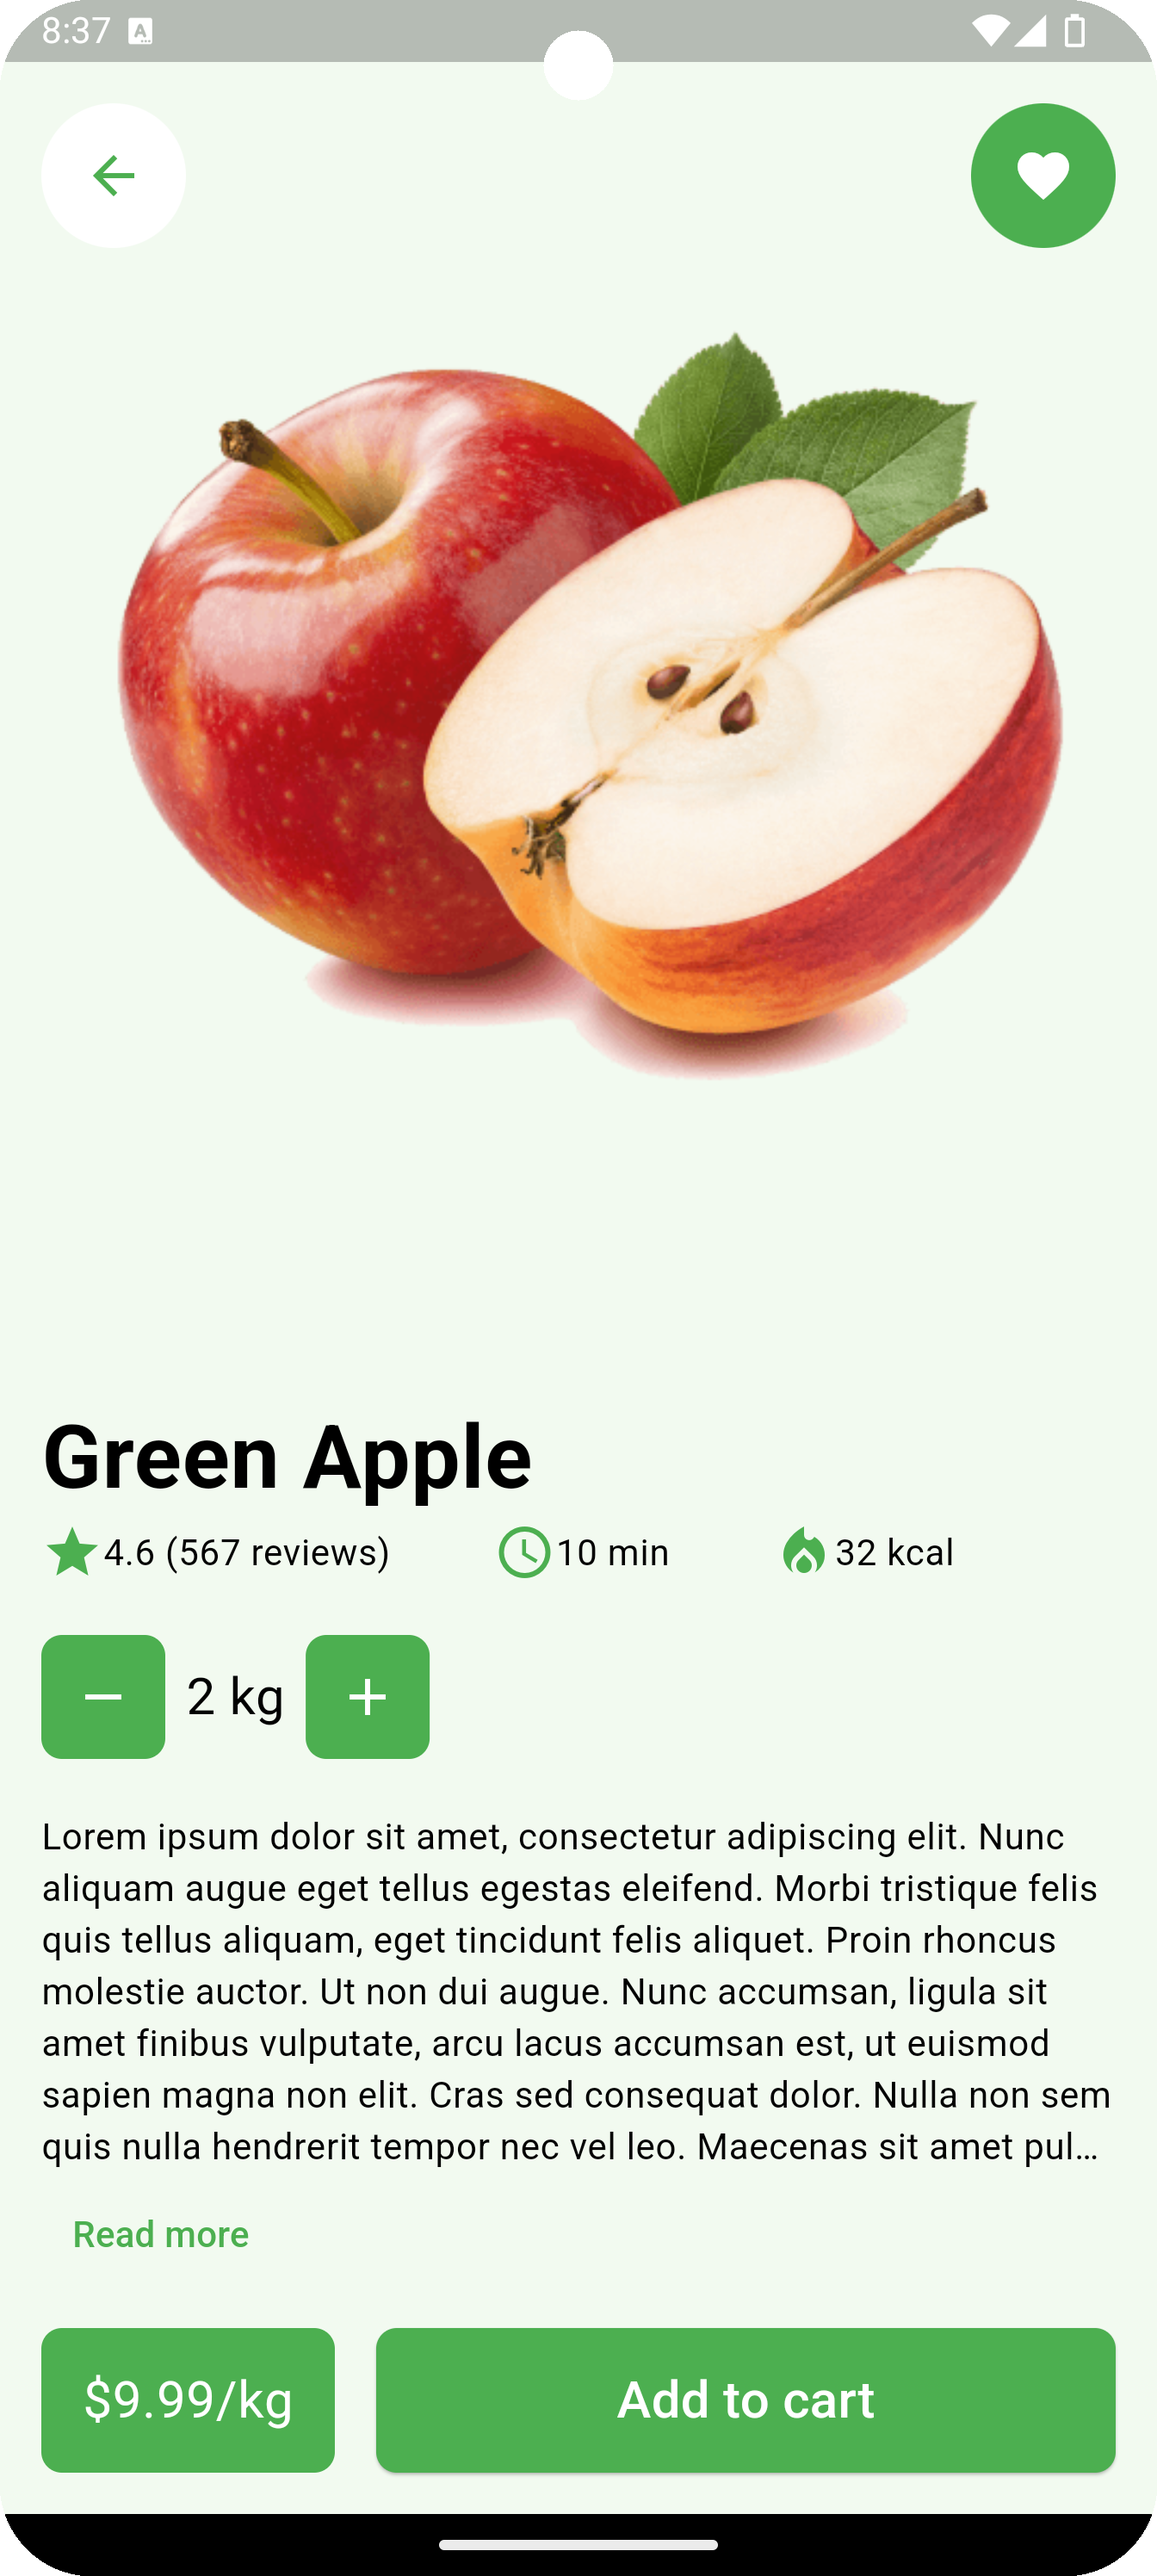
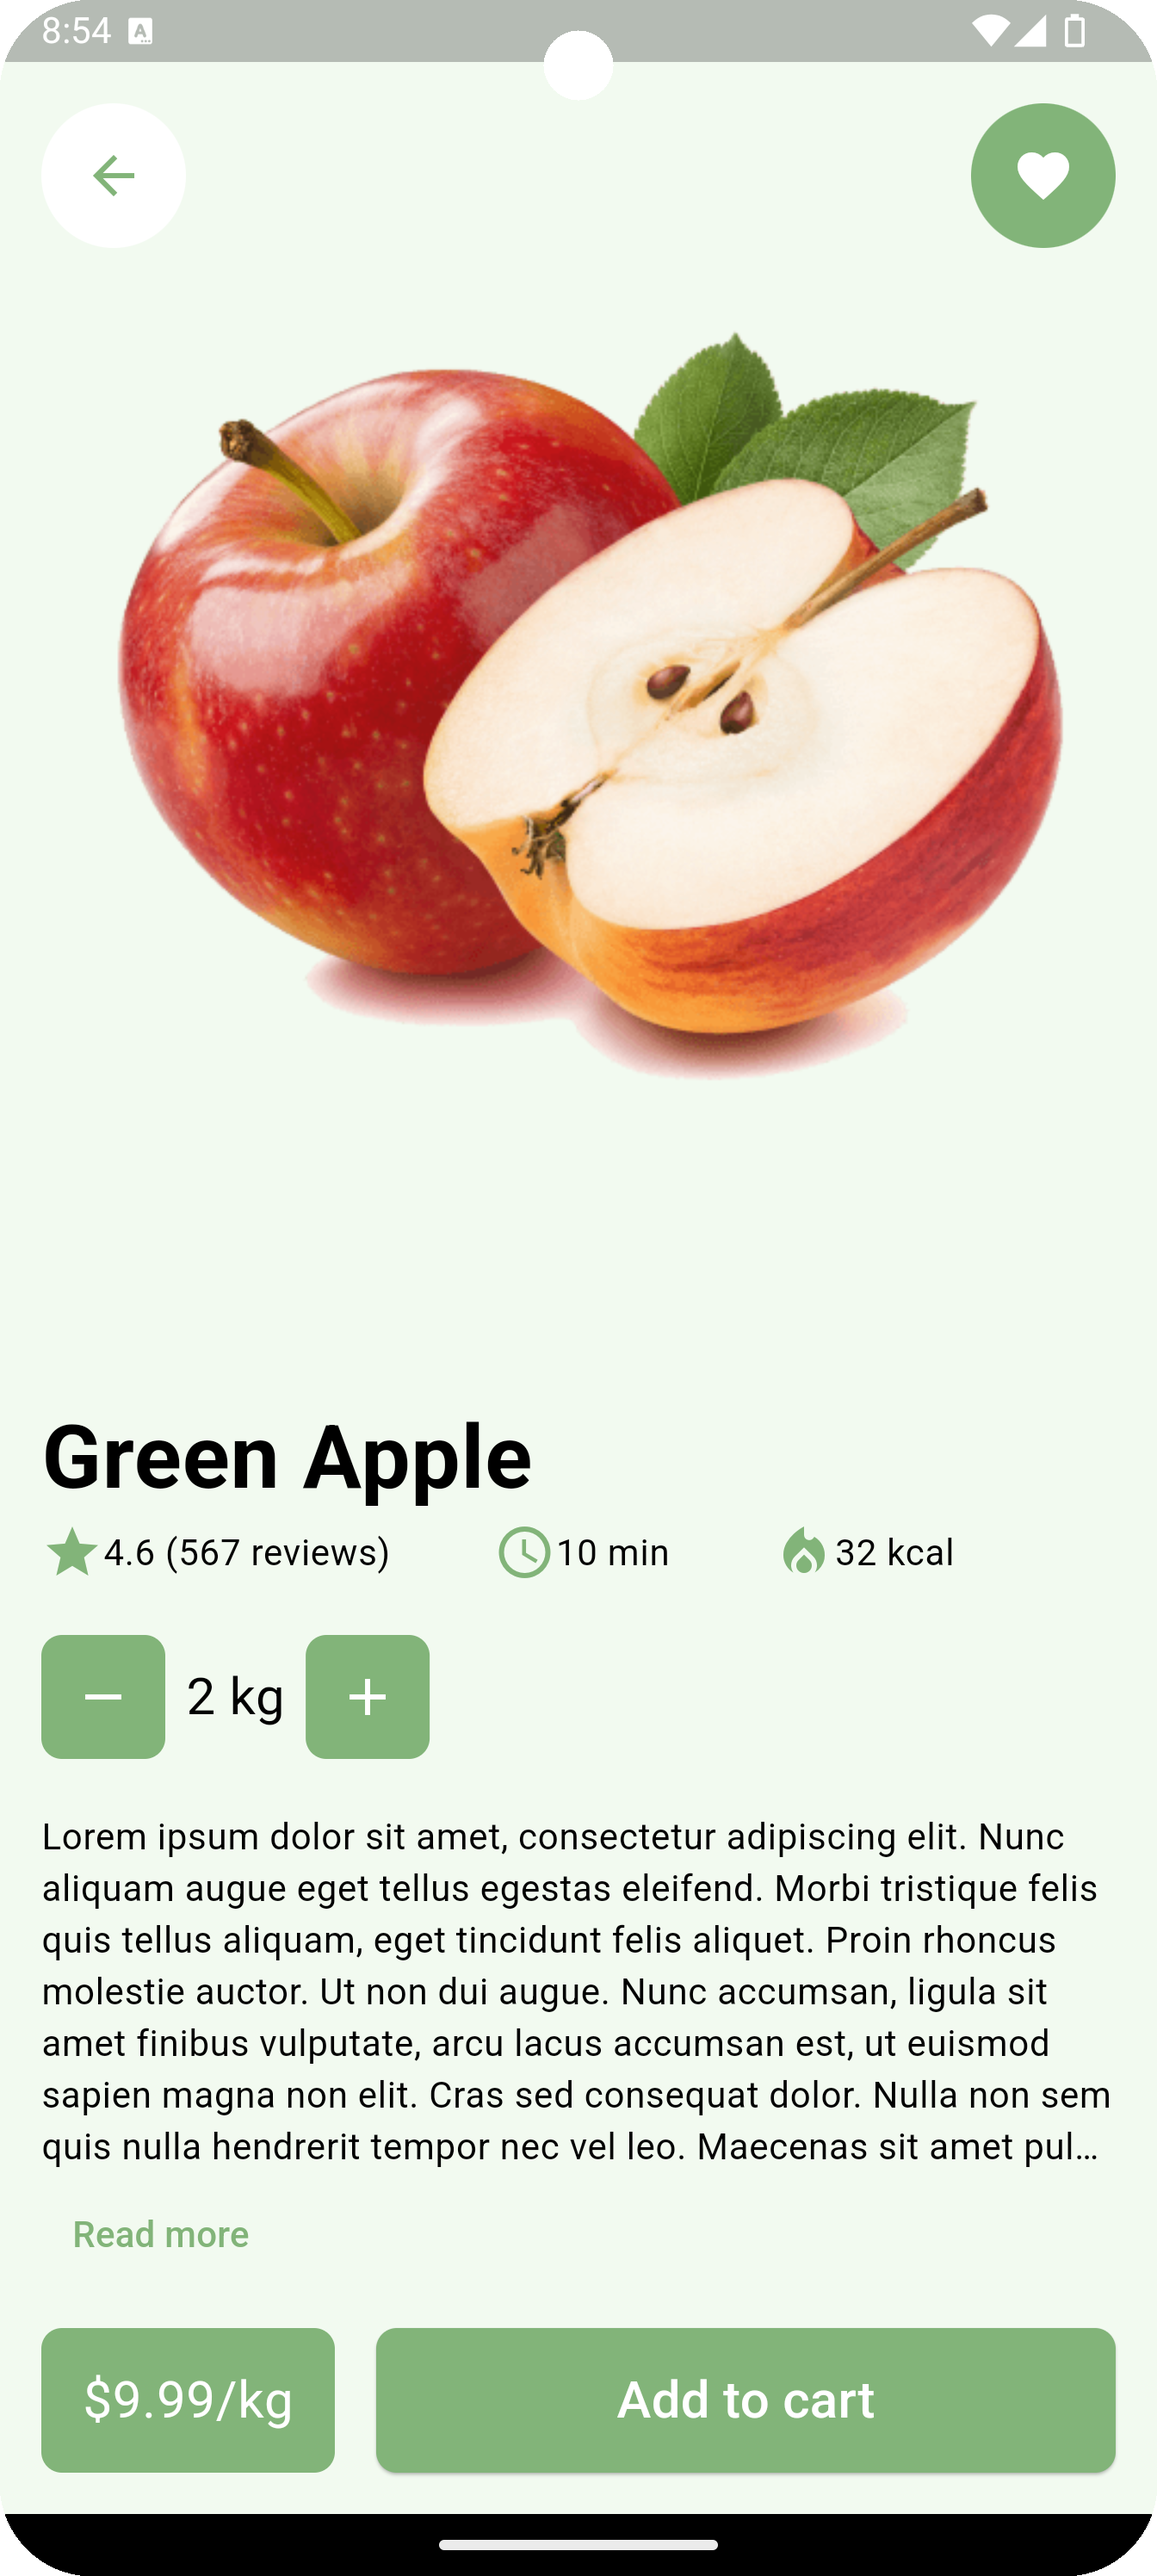
new screenshot

diff --git a/lib/screens/product_details_screen.dart b/lib/screens/product_details_screen.dart
@@ -80,21 +80,21 @@ class _ProductDetailsScreenState extends State<ProductDetailsScreen> {
                         children: [
                           Row(
                             children: [
-                              Icon(Icons.star, color: Colors.green),
+                              Icon(Icons.star, color: Color(0xFF82b479)),
                               Text('${widget.rating} (${widget.reviews} reviews)'),
                             ],
                           ),
                           SizedBox(width: 40),
                           Row(
                             children: [
-                              Icon(Icons.access_time, color: Colors.green),
+                              Icon(Icons.access_time, color: Color(0xFF82b479)),
                               Text('${widget.deliveryTime} min'),
                             ],
                           ),
                           SizedBox(width: 40),
                           Row(
                             children: [
-                              Icon(Icons.local_fire_department, color: Colors.green),
+                              Icon(Icons.local_fire_department, color: Color(0xFF82b479)),
                               Text('${widget.calories} kcal'),
                             ],
                           ),
@@ -105,7 +105,7 @@ class _ProductDetailsScreenState extends State<ProductDetailsScreen> {
                         children: [
                           Container(
                             decoration: BoxDecoration(
-                              color: Colors.green,
+                              color: Color(0xFF82b479),
                               borderRadius: BorderRadius.circular(8),
                             ),
                             child: IconButton(
@@ -118,7 +118,7 @@ class _ProductDetailsScreenState extends State<ProductDetailsScreen> {
                           SizedBox(width: 8),
                           Container(
                             decoration: BoxDecoration(
-                              color: Colors.green,
+                              color: Color(0xFF82b479),
                               borderRadius: BorderRadius.circular(8),
                             ),
                             child: IconButton(
@@ -146,7 +146,7 @@ class _ProductDetailsScreenState extends State<ProductDetailsScreen> {
                             ),
                           );
                         },
-                        child: Text('Read more', style: TextStyle(color: Colors.green)),
+                        child: Text('Read more', style: TextStyle(color: Color(0xFF82b479))),
                       ),
                     ],
                   ),
@@ -160,14 +160,14 @@ class _ProductDetailsScreenState extends State<ProductDetailsScreen> {
                 child: Material(
                   color: Colors.white, // Button color
                   child: InkWell(
-                    splashColor: Colors.green, // Splash color
+                    splashColor: Color(0xFF82b479), // Splash color
                     onTap: () {
                       Navigator.pop(context);
                     },
                     child: SizedBox(
                       width: 56,
                       height: 56,
-                      child: Icon(Icons.arrow_back, color: Colors.green),
+                      child: Icon(Icons.arrow_back, color: Color(0xFF82b479)),
                     ),
                   ),
                 ),
@@ -178,7 +178,7 @@ class _ProductDetailsScreenState extends State<ProductDetailsScreen> {
               right: 16,
               child: ClipOval(
                 child: Material(
-                  color: Colors.green, // Button color
+                  color: Color(0xFF82b479), // Button color
                   child: InkWell(
                     splashColor: Colors.white, // Splash color
                     onTap: () {
@@ -203,7 +203,7 @@ class _ProductDetailsScreenState extends State<ProductDetailsScreen> {
                     height: 56,
                     padding: EdgeInsets.symmetric(horizontal: 16),
                     decoration: BoxDecoration(
-                      color: Colors.green,
+                      color: Color(0xFF82b479),
                       borderRadius: BorderRadius.circular(8),
                     ),
                     child: Center(
@@ -222,7 +222,7 @@ class _ProductDetailsScreenState extends State<ProductDetailsScreen> {
                           // Add to cart
                         },
                         style: ElevatedButton.styleFrom(
-                          backgroundColor: Colors.green,
+                          backgroundColor: Color(0xFF82b479),
                           shape: RoundedRectangleBorder(
                             borderRadius: BorderRadius.circular(8),
                           ),
